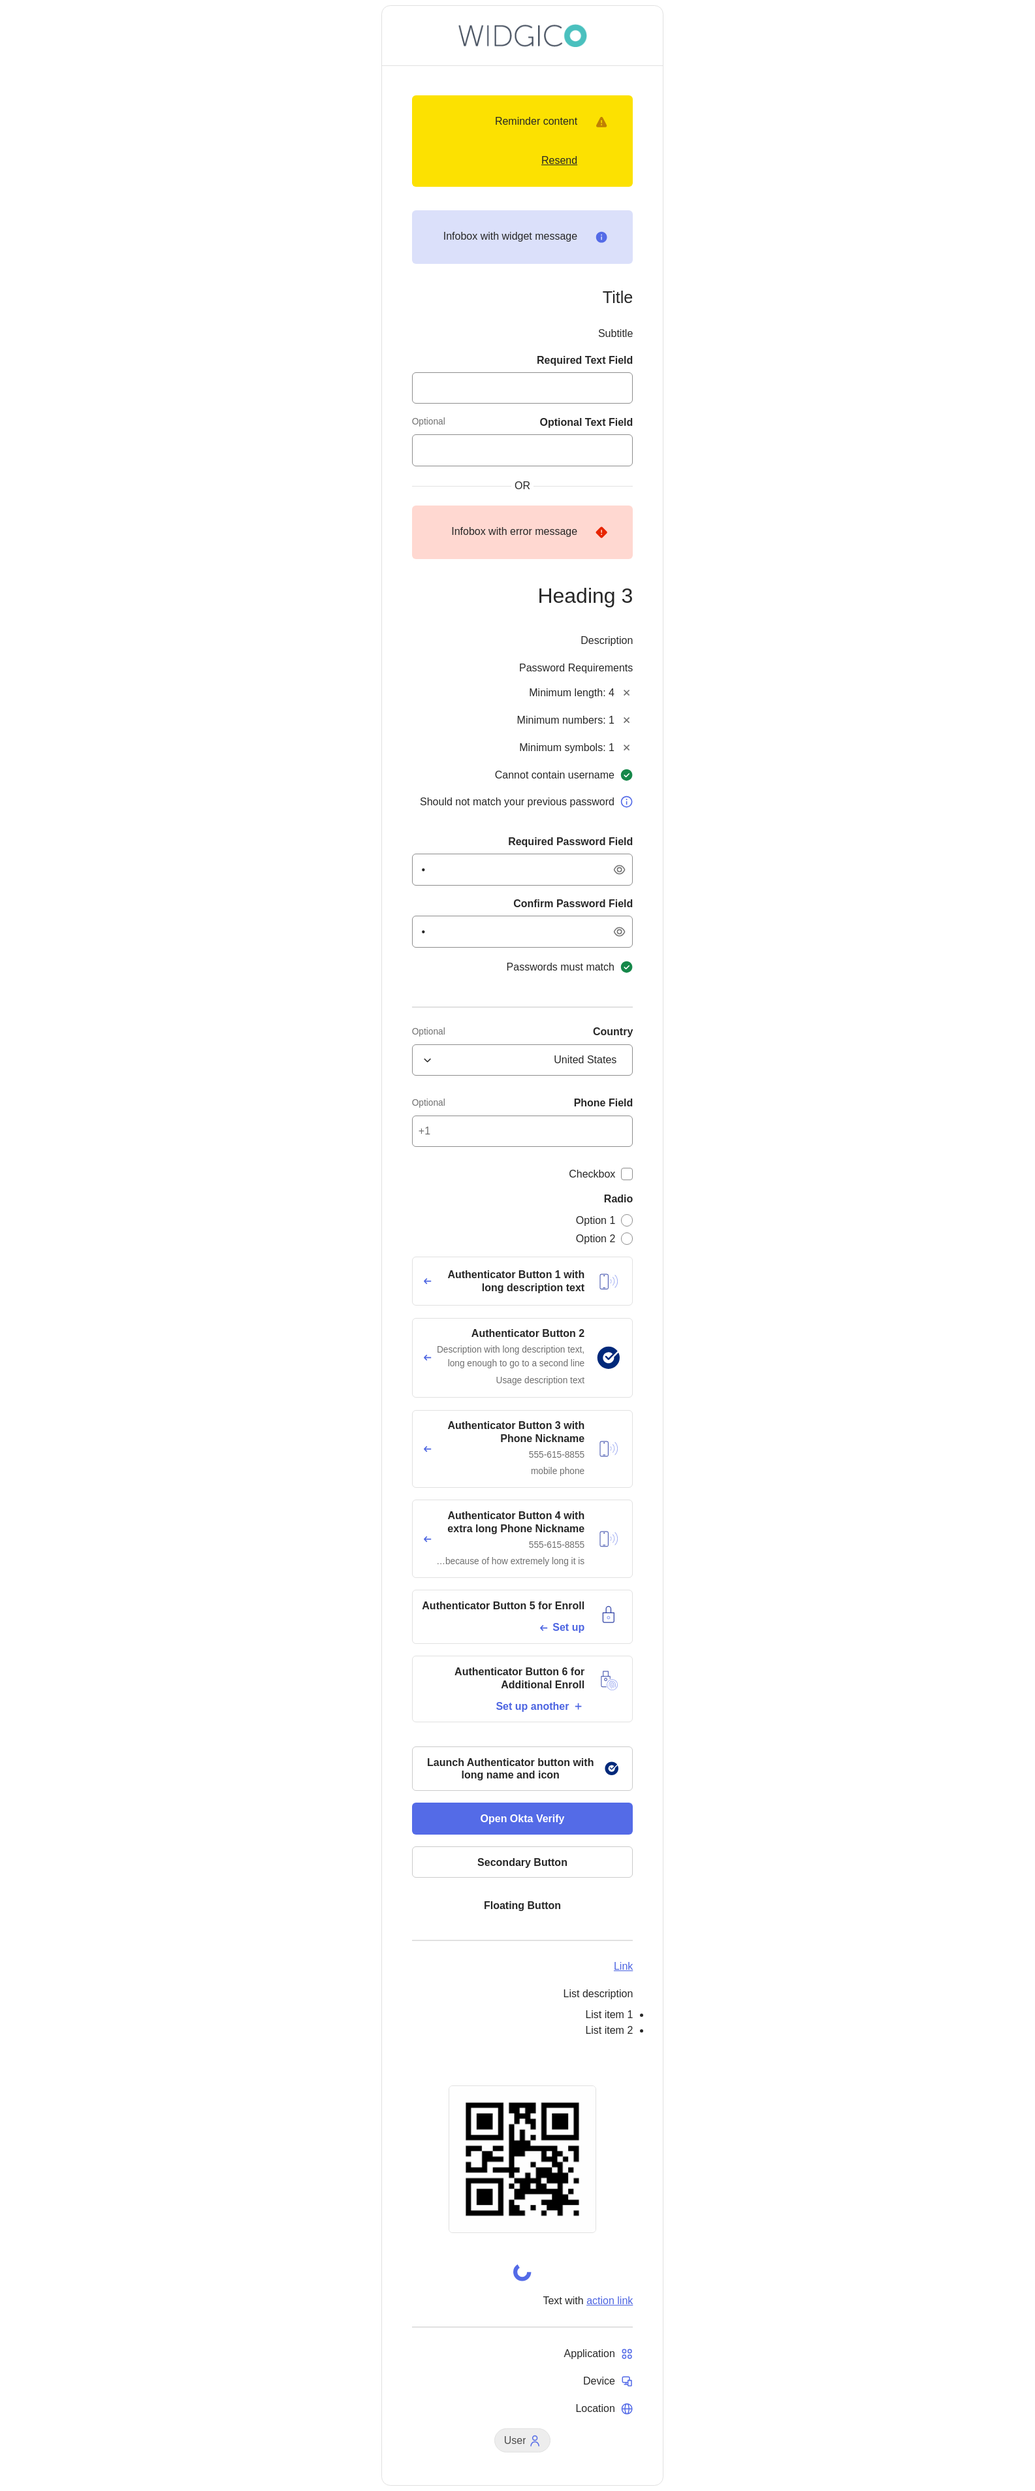
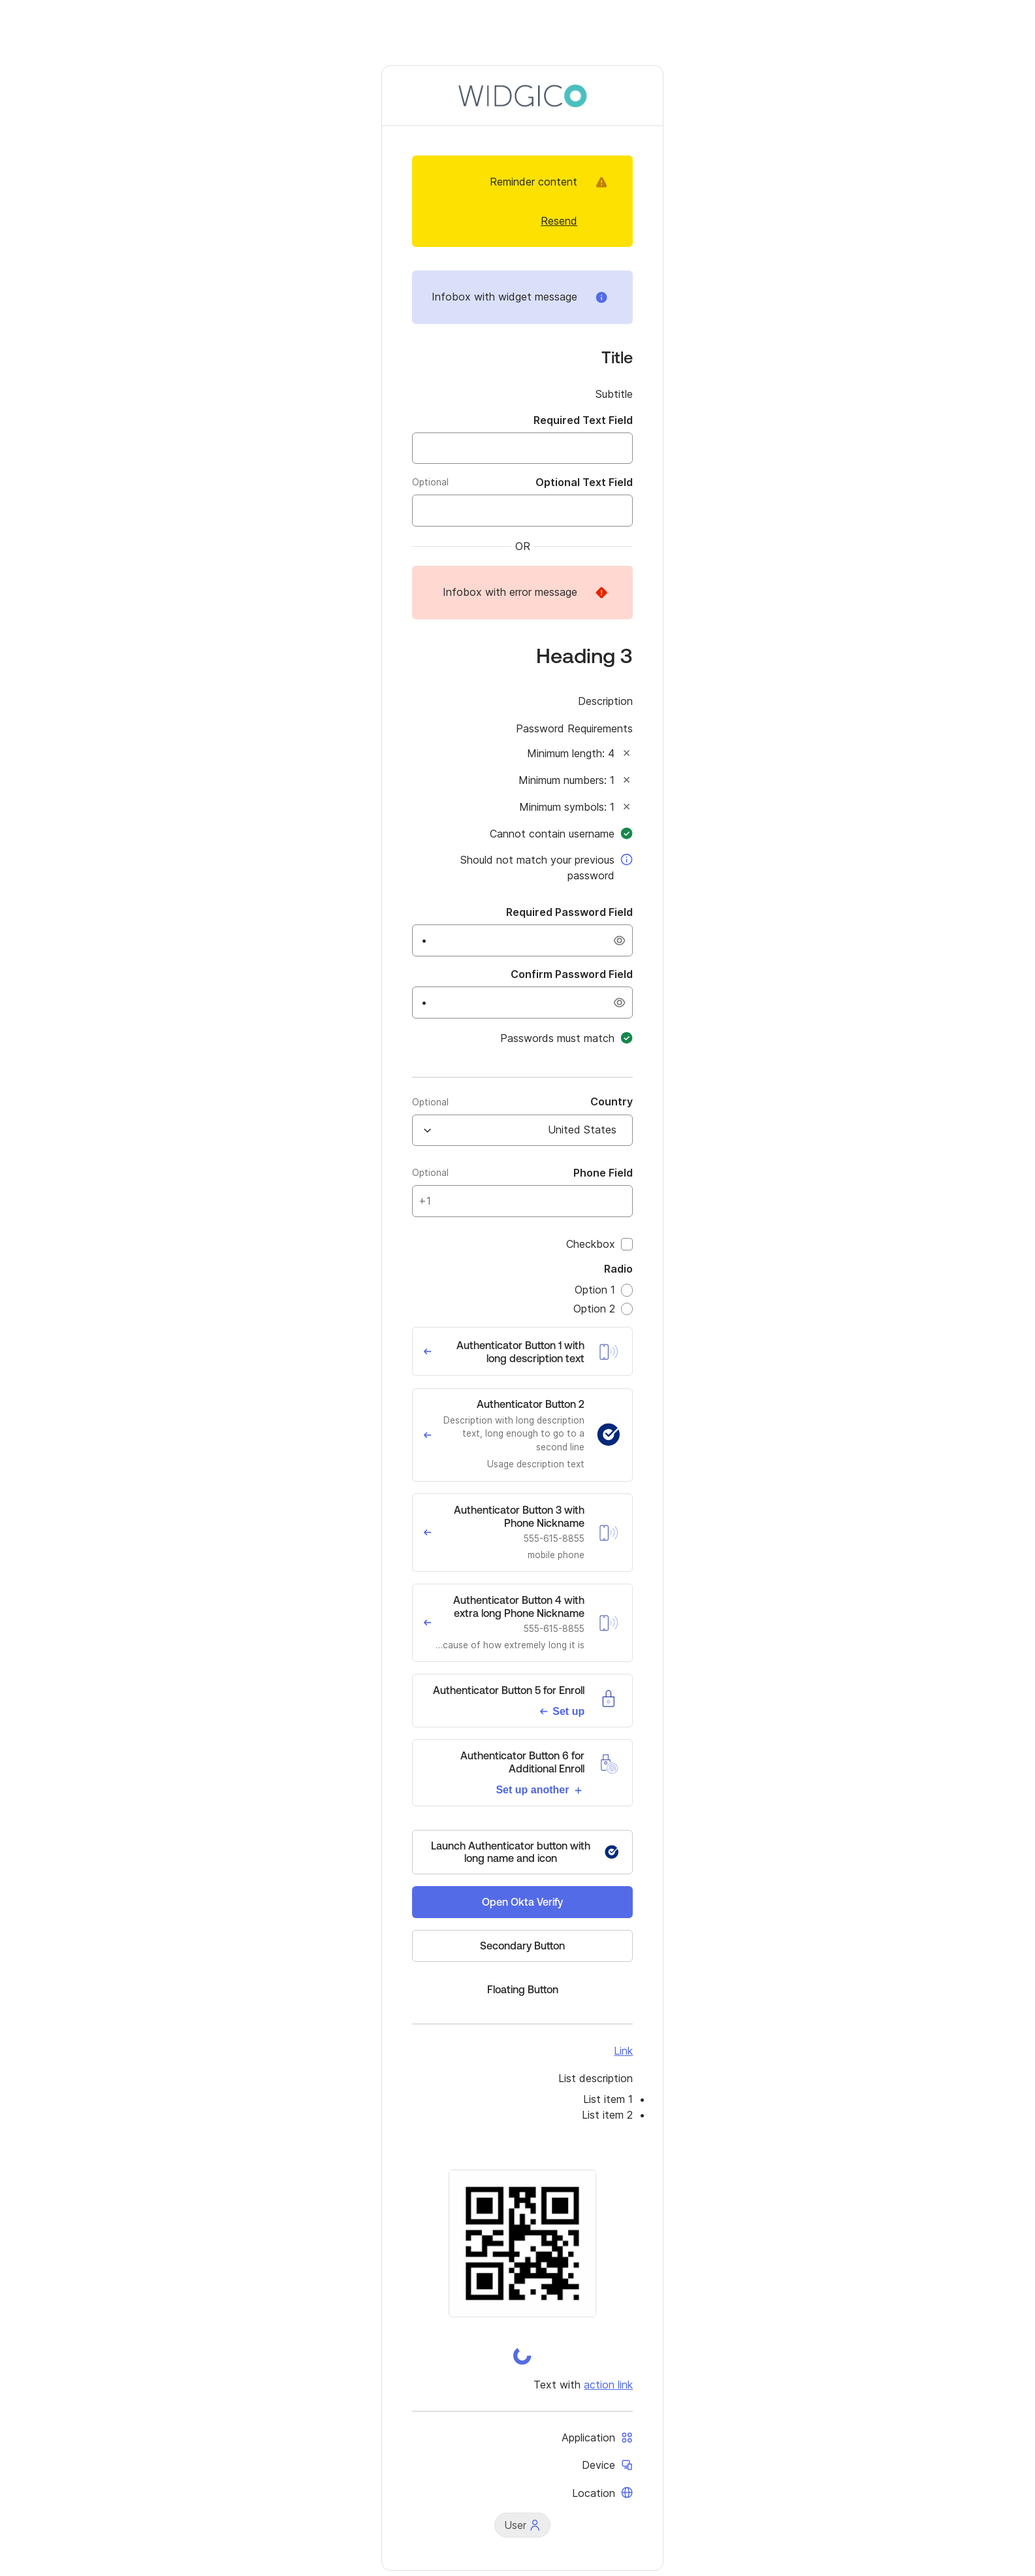
VRT update and fix fonts.css for playground

diff --git a/assets/css/fonts.css b/assets/css/fonts.css
@@ -153,7 +153,7 @@
 @font-face {
     font-family: Aeonik;
     font-style: normal;
-    font-weight: 600;
+    font-weight: 500;
     src: url(https://op3static.oktacdn.com/assets/loginpage/font/assets/Aeonik-Medium.a584ebd29a0626ccf36d.woff2) format("woff2"), url(https://op3static.oktacdn.com/assets/loginpage/font/assets/Aeonik-Medium.3b09f560a7da8d6f25b5.woff) format("woff")
 }
 
@@ -167,6 +167,6 @@
 @font-face {
     font-family: Aeonik;
     font-style: italic;
-    font-weight: 600;
+    font-weight: 500;
     src: url(https://op3static.oktacdn.com/assets/loginpage/font/assets/Aeonik-MediumItalic.699c767baed36aef39e0.woff2) format("woff2"), url(https://op3static.oktacdn.com/assets/loginpage/font/assets/Aeonik-MediumItalic.933fdf9a04975c8f9cc7.woff) format("woff")
 }

diff --git a/src/v3/test/integration/authenticator-verification-data-ov-only-without-device-known.test.tsx b/src/v3/test/integration/authenticator-verification-data-ov-only-without-device-known.test.tsx
@@ -23,7 +23,7 @@ describe('authenticator-verification-data-ov-only-without-device-known', () => {
 
   it('should send correct payload when clicking "Get a push notification"', async () => {
     const {
-      authClient, user, findByRole, findAllByRole,
+      authClient, user, findByRole,
     } = await setup({ mockResponse, widgetOptions: { features: { autoFocus: true } } });
 
     const heading = await findByRole('heading', { level: 2 });

diff --git a/playground/index.html b/playground/index.html
@@ -6,7 +6,7 @@
     <meta name="viewport" content="width=device-width, initial-scale=1.0" />
     <link href="/css/okta-sign-in.css" type="text/css" rel="stylesheet" />
     <link href="/css/okta-plugin-a11y.css" type="text/css" rel="stylesheet" />
-    <link href="/playground/fonts.css" type="text/css" rel="stylesheet" />
+    <link href="/css/fonts.css" type="text/css" rel="stylesheet" />
   </head>
   
   <body>
